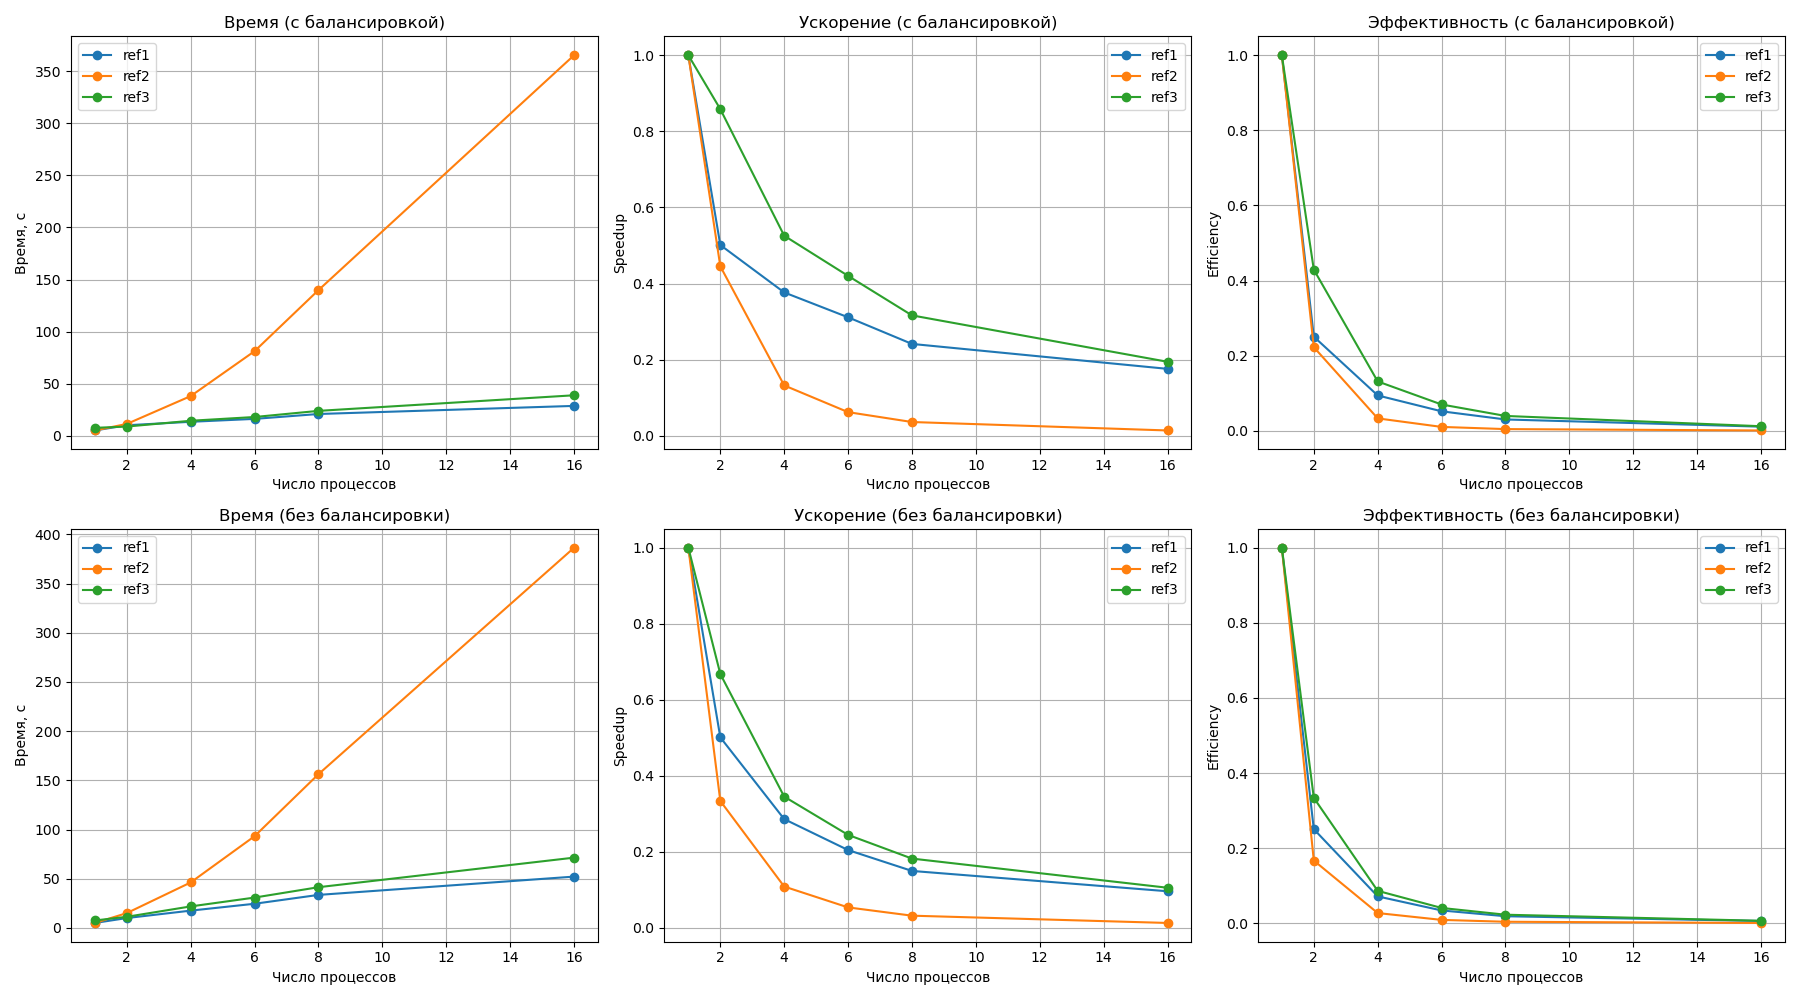
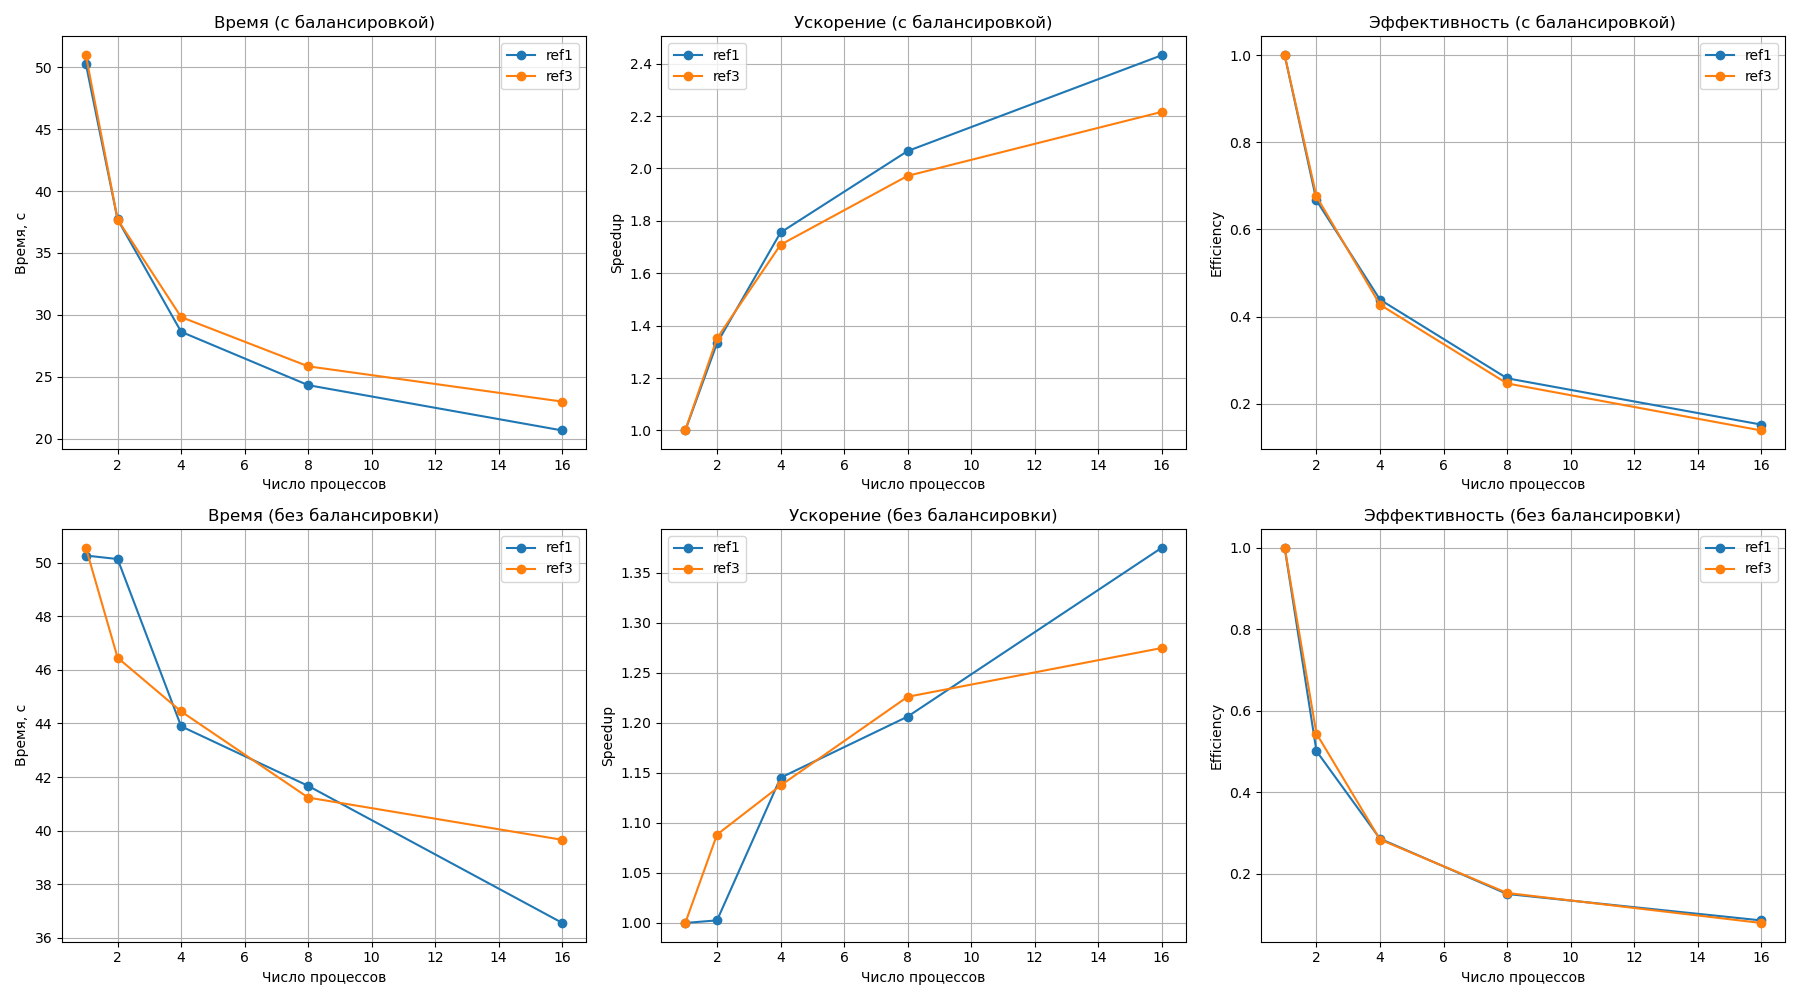
changed how refills work, changed graphs

diff --git a/lab5/parallel.cpp b/lab5/parallel.cpp
@@ -9,7 +9,7 @@
 #include <chrono>
 
 enum Measures {
-    TASK_NUM = 50, // число задач на каждом процессе
+    TASK_NUM = 500, // число задач на каждом процессе
     ITERATIONS = 10 // число итераций выполнения программы
 };
 
@@ -17,7 +17,7 @@ enum Measures {
 enum Status {
     FINISHED = -1, // все задачи завершены
     NO_TASKS = -2, // нет задач для передачи
-    BALANCE = 1 // ФЛАГ БАЛАНСА - делаю с без него и с ним графики 
+    BALANCE = 0, // ФЛАГ БАЛАНСА - делаю с без него и с ним графики 
 };
 
 // потоки: для обработки сообщений и выполнения задач
@@ -78,10 +78,9 @@ public:
 // 1 - МИН ЭФФЕКТИВНОСТЬ - заполниние очереди задачами: время задачи зависит от rank процесса и номера итерации
 void refillTaskList(SafeQueue &queue, int size, int rank, int iteration) {
     // задержка задачи: чем дальше rank от (iteration % size), тем дольше
-    // +1 - чтобы не было нуля (ранг 2, итерация 10, сайз 4)
     // *10 - множитель чтобы длинее работало (на мое усмотрение)
     int duration = (abs(rank - (iteration % size)) + 1) * 10;
-    for (int i = 0; i < TASK_NUM; i++) {
+    for (int i = 0; i < TASK_NUM / size; i++) {
         queue.push(duration);
     }
 }
@@ -90,20 +89,49 @@ void refillTaskList(SafeQueue &queue, int size, int rank, int iteration) {
 void refillTaskList2(SafeQueue &queue, int size, int rank, int iteration) {
     int duration = (abs(rank - (iteration % size)) + 1) * 10;
     if (rank == 0) {
-        for (int i = 0; i < size * TASK_NUM; i++) {
+        for (int i = 0; i < TASK_NUM; i++) {
             queue.push(duration);
         }
     }
 }
 
 // 3 - СРЕДНЯЯ ЭФФЕКТИВНОСТЬ - первая половина процессов получает по TASK_NUM/2 задач. другая по TASK_NUM 
+// void refillTaskList3(SafeQueue &queue, int size, int rank, int iteration) {
+//     int duration = (abs(rank - (iteration % size)) + 1) * 10;
+//     int tasks = (rank < size / 2) ? TASK_NUM/size/2 : (TASK_NUM/size + TASK_NUM/size/2);
+//     for (int i = 0; i < tasks; i++) {
+//         queue.push(duration);
+//     }
+// }
+
 void refillTaskList3(SafeQueue &queue, int size, int rank, int iteration) {
     int duration = (abs(rank - (iteration % size)) + 1) * 10;
-    int tasks = (rank < size / 2) ? TASK_NUM/2 : (TASK_NUM + TASK_NUM/2);
-    for (int i = 0; i < tasks; i++) {
+    int totalTasks = TASK_NUM;
+    int baseTasks = totalTasks / size;
+    int extraTasks = totalTasks % size;
+    int myTasks = baseTasks + (rank < extraTasks ? 1 : 0);
+
+    if (rank < size / 2) {
+        myTasks = myTasks / 2;
+    } else {
+        myTasks = myTasks + myTasks / 2;
+    }
+
+    for (int i = 0; i < myTasks; i++) {
         queue.push(duration);
     }
 }
+
+// void refillTotal(SafeQueue &queue, int size, int rank, int iteration) {
+//     int duration = (abs(rank - (iteration % size)) + 1) * 10;
+//     int TOTAL_TASKS = TASK_NUM;
+//     int base = TOTAL_TASKS / size;
+//     int extra = TOTAL_TASKS % size;
+//     int myTasks = base + (rank < extra ? 1 : 0);
+//     for (int i = 0; i < myTasks; ++i) {
+//         queue.push(duration);
+//     }
+// }
 
 // выполняем задачи из очереди
 void executeTasks(SafeQueue &queue) {
@@ -148,14 +176,19 @@ void runMessageThread(SafeQueue &queue, int size, int rank) {
 
             // иначе msg = rank процесса, запрашивающего задачи и нам нужно отправить в msg свободные задачи
             recvRank = msg;
+
+            // std::cout << "mT[" << rank << "]: has " << queue.getSize() << " tasks before sending" << std::endl;
             
             int taskCount = 0;
             // если в queue есть избыточные задачи, соберём половину для отправки
-            if (queue.getSize() > TASK_NUM / size) {
-                taskList.resize(TASK_NUM / size);
+            int available = queue.getSize();
+            int give = available > 1 ? available / 2 : 0;
+            if (give > 0) {
+                // вырезаем give задач и отправляем
+                taskList.resize(give);
                 while (queue.pop(taskList[taskCount])) {
                     taskCount++;
-                    if (taskCount == TASK_NUM / size) {
+                    if (taskCount == give) {
                         break;
                     }
                 }
@@ -173,6 +206,8 @@ void runMessageThread(SafeQueue &queue, int size, int rank) {
                 MPI_Send(taskList.data(), taskCount, MPI_INT, recvRank, rank, MPI_COMM_WORLD);
             }
             taskList.clear();
+
+            // std::cout << "mT[" << rank << "]: has " << queue.getSize() << " tasks left" << std::endl;
         }
     });
 }
@@ -184,7 +219,7 @@ void runExecutingThread(SafeQueue &queue, int size, int rank) {
 
         // повторяем ITERATIONS раз: заполнение, выполнение, балансировка, барьер
         for (int i = 0; i < ITERATIONS; i++) {
-            refillTaskList(queue, size, rank, i);
+            refillTaskList2(queue, size, rank, i);
             std::cout << "eT[" << rank << "]: initial queue size = " << queue.getSize() << " tasks" << std::endl;
             executeTasks(queue);
 
@@ -197,9 +232,6 @@ void runExecutingThread(SafeQueue &queue, int size, int rank) {
                     MPI_Status status1;
                     // получение количества избыточных задач от процесса j 
                     MPI_Recv(&taskGiven, 1, MPI_INT, j, j, MPI_COMM_WORLD, &status1);
-
-                    std::cout << "eT[" << rank << "]: process " << j << " gave "
-                        << taskGiven << " tasks to proc " << rank << std::endl;
 
                     // если процесс дал задачи, принимаем массив и выполняем их
                     if (taskGiven != NO_TASKS) {

diff --git a/lab5/makegraphs.py b/lab5/makegraphs.py
@@ -1,17 +1,27 @@
 import matplotlib.pyplot as plt
 
-threads = [1, 2, 4, 6, 8, 16]
+threads = [1, 2, 4, 8, 16]
+
+# times_bal = {
+#     "ref1": [28.6161, 20.8414, 13.3501, 10.031, 5.02736],
+#     "ref2": [365.433, 139.849, 38.0425, 11.291, 5.02752],
+#     "ref3": [38.8176, 23.846, 14.3457, 8.78556, 7.54079]
+# }
+
+# times_nobal = {
+#     "ref1": [52.1396, 33.545, 17.5646, 10.0291, 5.02714],
+#     "ref2": [386.392, 156.242, 46.2164, 15.0535, 5.02754],
+#     "ref3": [71.4146, 41.3711,  21.8464, 11.2948, 7.54432]
+# }
 
 times_bal = {
-    "ref1": [5.02736, 10.031, 13.3501, 16.1545, 20.8414, 28.6161],
-    "ref2": [5.02752, 11.291, 38.0425, 81.1965, 139.849, 365.433],
-    "ref3": [7.54079, 8.78556, 14.3457, 17.9495, 23.846, 38.8176]
+    "ref1": [50.2722, 37.7064, 28.6344, 24.3262, 20.669], 
+    "ref3": [50.967, 37.7001, 29.8236, 25.8473, 22.9981],
 }
 
 times_nobal = {
-    "ref1": [5.02714, 10.0291, 17.5646, 24.5479, 33.545, 52.1396],
-    "ref2": [5.02754, 15.0535, 46.2164, 93.2236, 156.242, 386.392],
-    "ref3": [7.54432, 11.2948, 21.8464, 30.8323, 41.3711, 71.4146]
+    "ref1": [50.2694, 50.1387, 43.8937, 41.6695, 36.5532],
+    "ref3": [50.5604, 46.4544, 44.449, 41.2336, 39.6562 ],
 }
 
 def plot():
